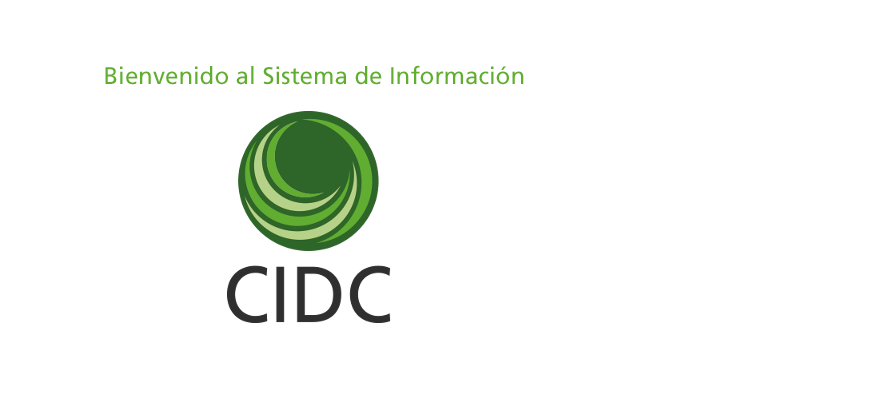
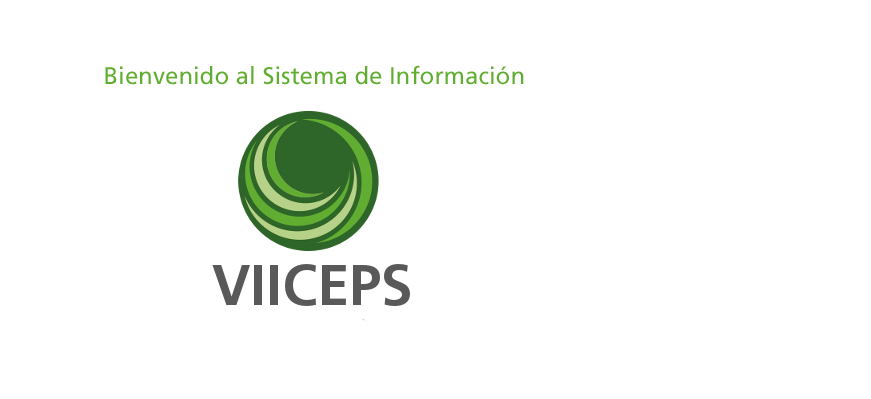
cambio imagen viiceps
Se cambia las imagenes para que digan VIICEPS

Changed region(s): [[0.248, 0.6617, 0.496, 0.812]]

diff --git a/WEB-INF/src/cidc/proyectosGeneral/db/ProyectosGeneralDB.java b/WEB-INF/src/cidc/proyectosGeneral/db/ProyectosGeneralDB.java
@@ -531,6 +531,7 @@ public class ProyectosGeneralDB extends BaseDB {
 						ps.setString(i++, documento.getObservaciones());
 						ps.setInt(i++, proyecto.getId());
 						ps.executeUpdate();
+						System.out.println(ps.toString());
 						retorno=true;
 						noGenerico=false;
 					break;
@@ -563,7 +564,7 @@ public class ProyectosGeneralDB extends BaseDB {
 				ps.setString(i++, documento.getObservaciones());
 				ps.setInt(i++, documento.getTipo());
 				ps.setInt(i++, documento.getEstado());
-				ps.setLong(i++, idUsuario);			
+				ps.setLong(i++, idUsuario);
 				ps.executeUpdate();
 				retorno=true;
 			}

diff --git a/work/org/apache/jsp/inscripEventos/inscripEvento_jsp.java b/work/org/apache/jsp/inscripEventos/inscripEvento_jsp.java
@@ -95,7 +95,7 @@ public final class inscripEvento_jsp extends org.apache.jasper.runtime.HttpJspBa
       out.write("\t\t<table align=\"center\">\n");
       out.write("\t\t\t<tr>\n");
       out.write("\t\t\t\t<td align=\"center\"><br>\n");
-      out.write("\t\t\t\t\t<img border=\"0\" src=\"/siciud/comp/img/Imagen-Home.gif\">\n");
+      out.write("\t\t\t\t\t<img border=\"0\" src=\"/siciud/comp/img/Imagen-Home.png\">\n");
       out.write("\t\t\t\t</td>\n");
       out.write("\t\t\t</tr>\n");
       out.write("\t\t</table>\n");
